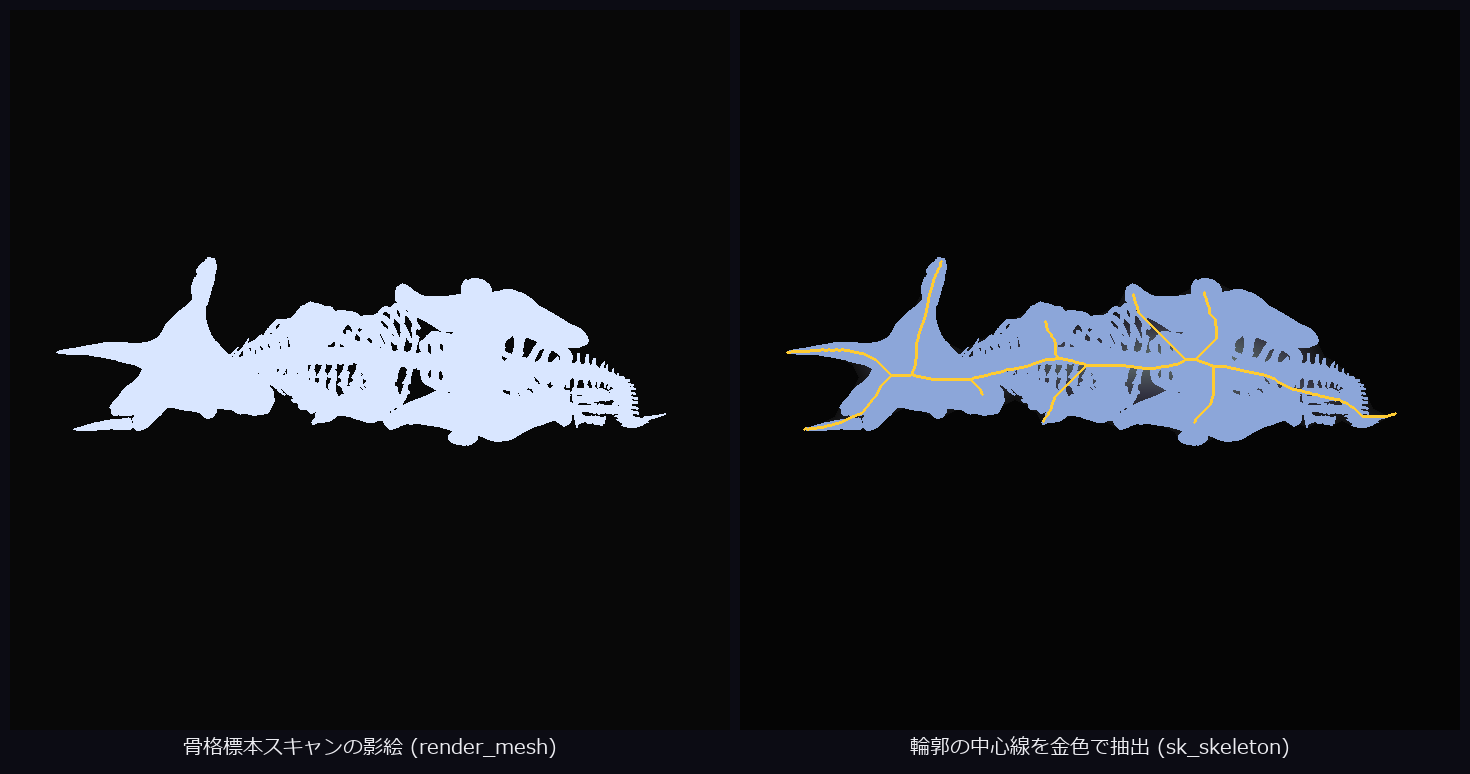
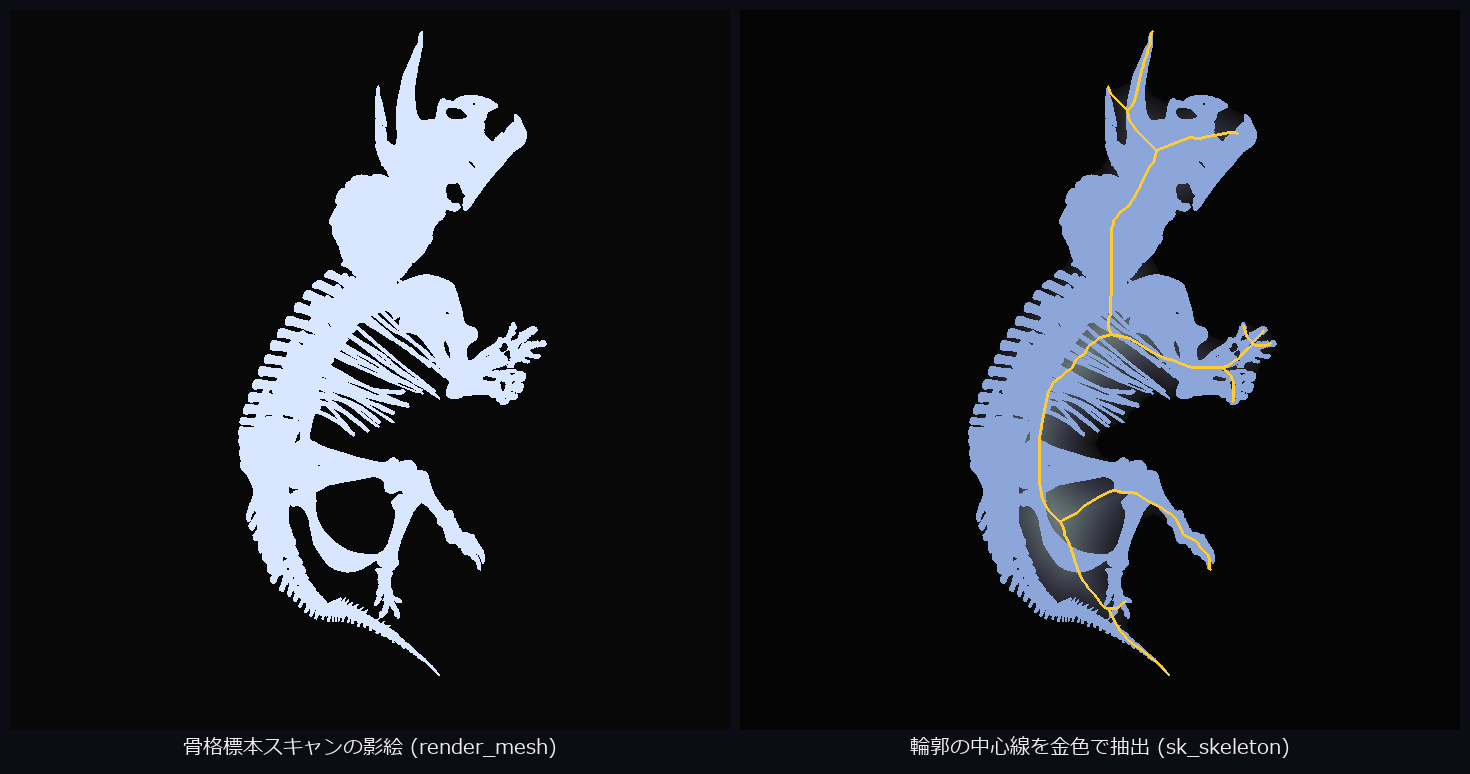
auto: fullseye_overview_qiita_ja.md 編集前 (2026-08-30 16:32)

diff --git a/tools/gen_science_gallery.py b/tools/gen_science_gallery.py
@@ -559,8 +559,9 @@ def subject_dino_skeleton(log=print) -> dict:
     V = V - V.mean(axis=0)
     V = V / np.abs(V).max()
     size = 720
-    # glTF は y-up・長軸 z。真横 (+x) から見ると骨格標本の側面像になる
-    pose = fs.look_at((2.6, 0.35, 0.0), (0.0, 0.0, 0.0), up=(0.0, 1.0, 0.0))
+    # glTF は y-up・長軸 z。真上 (+y) から見下ろすと、広げた足・しっぽ・角の
+    # そろった「恐竜らしい」影絵になる (横からだと展示ポーズが重なって読めない)
+    pose = fs.look_at((0.0, 2.6, 0.0), (0.0, 0.0, 0.0), up=(0.0, 0.0, 1.0))
     r = fs.render_mesh(V, F, pose=pose, width=size, height=size)
     bones = np.asarray(r["silhouette"], np.float64)
     # 骨のすき間を閉じて「体の輪郭」にしてから中心線を取る

diff --git a/docs/articles/assets/_industrial_snippet.md b/docs/articles/assets/_industrial_snippet.md
@@ -69,3 +69,11 @@
 (フル解像度: https://raw.githubusercontent.com/furuse-kazufumi/fullseye/master/docs/articles/assets/phai_binpick.png )
 
 部品 10 個を物理シミュレーションで箱に落とし、真上の深度カメラで観測。深度しきい値でセグメントした各部品を「周囲クリアランス + 高さ」で採点し、把持ジョーの向きは長方形フィットの長軸から決める。緑が最優先候補。実機ビンピッキングの前段そのもの。 使用 op: segment_objects, fit_rectangle2, colorize_depth, (scipy distance_transform_edt)。データ: MuJoCo 物理シミュレーション (部品 10 個を実際に落下・堆積)。
+
+## ステレオ視差 → 3D 復元 → 鳥瞰障害物マップ
+
+![ステレオ視差 → 3D 復元 → 鳥瞰障害物マップ](https://raw.githubusercontent.com/furuse-kazufumi/fullseye/master/docs/articles/assets/phai_stereo_obstacles_thumb.jpg)
+
+(フル解像度: https://raw.githubusercontent.com/furuse-kazufumi/fullseye/master/docs/articles/assets/phai_stereo_obstacles.png )
+
+2 台のカメラ画像のズレ(視差)をブロックマッチングで求め、Z = f·b/d で奥行きに変換して 3D 点群へ。高さ 10cm 超の点をクラスタリングすると 4 物体が 4 クラスタに分かれ、鳥瞰の障害物マップができる。移動ロボットの視覚の最短経路。 使用 op: disparity_subpixel (stereo), colorize_disparity, euclidean_clusters, obb。データ: MuJoCo レンダのステレオペア (基線 12cm, 物体 4 個 = 真値)。
